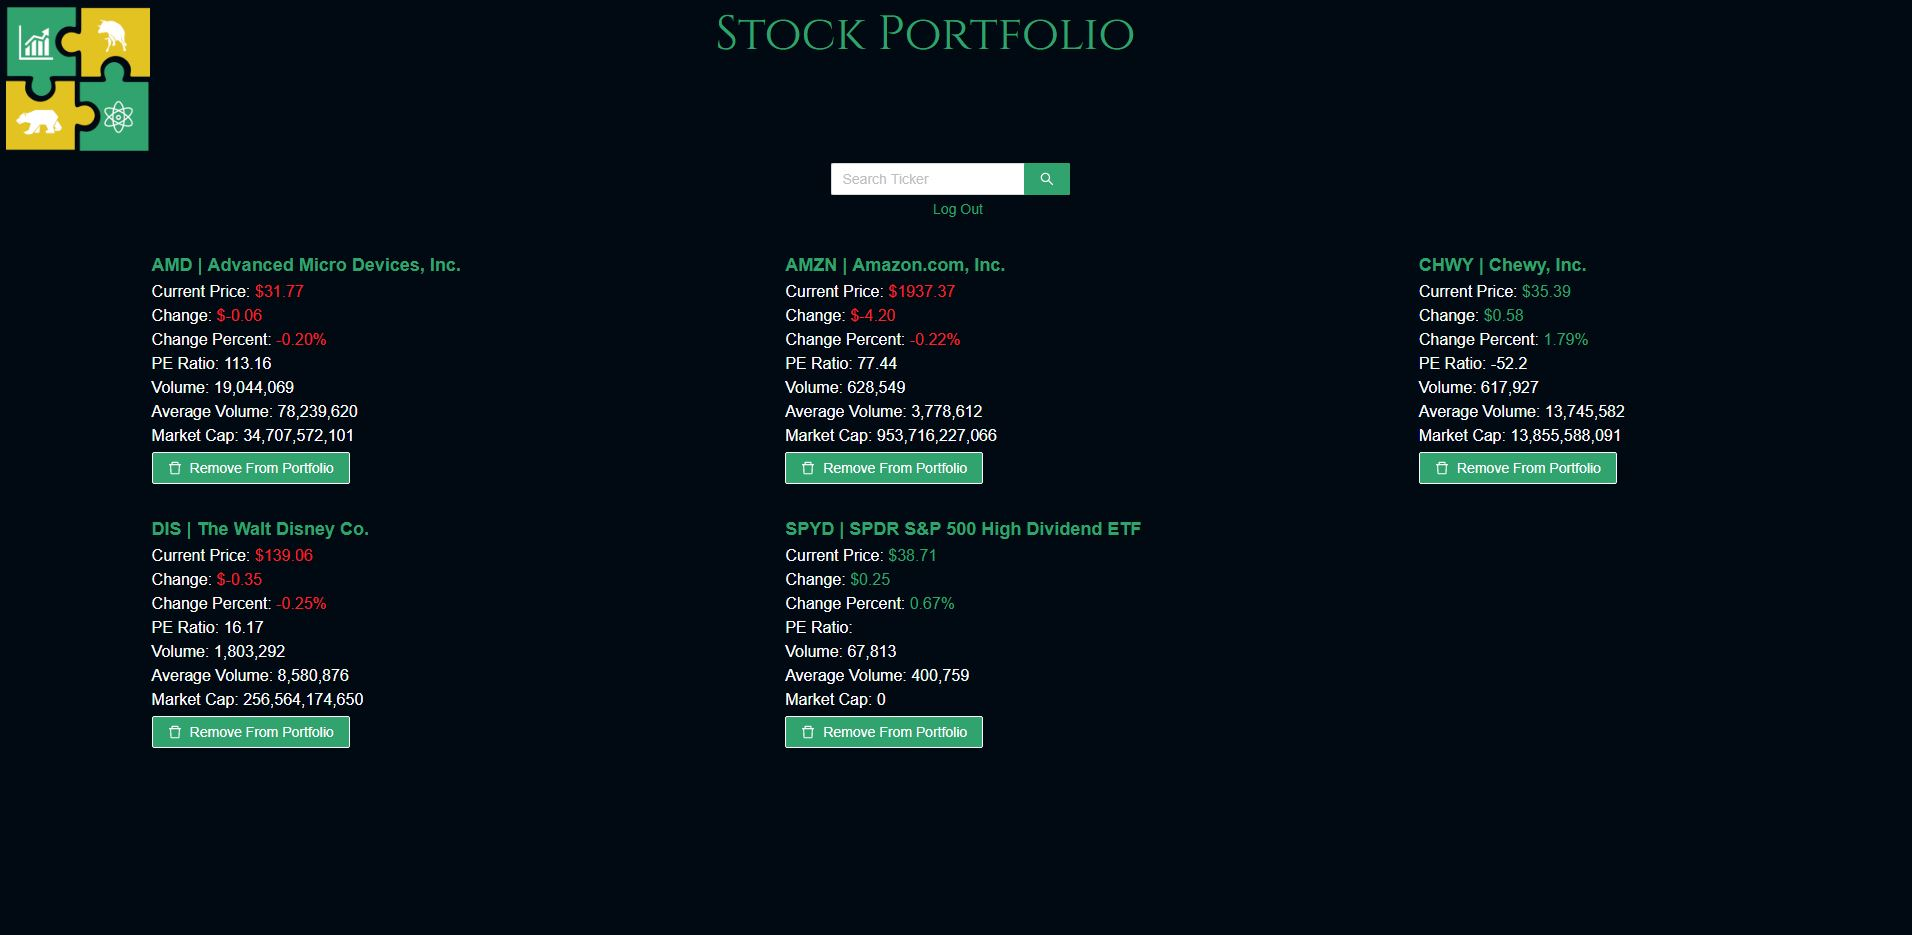
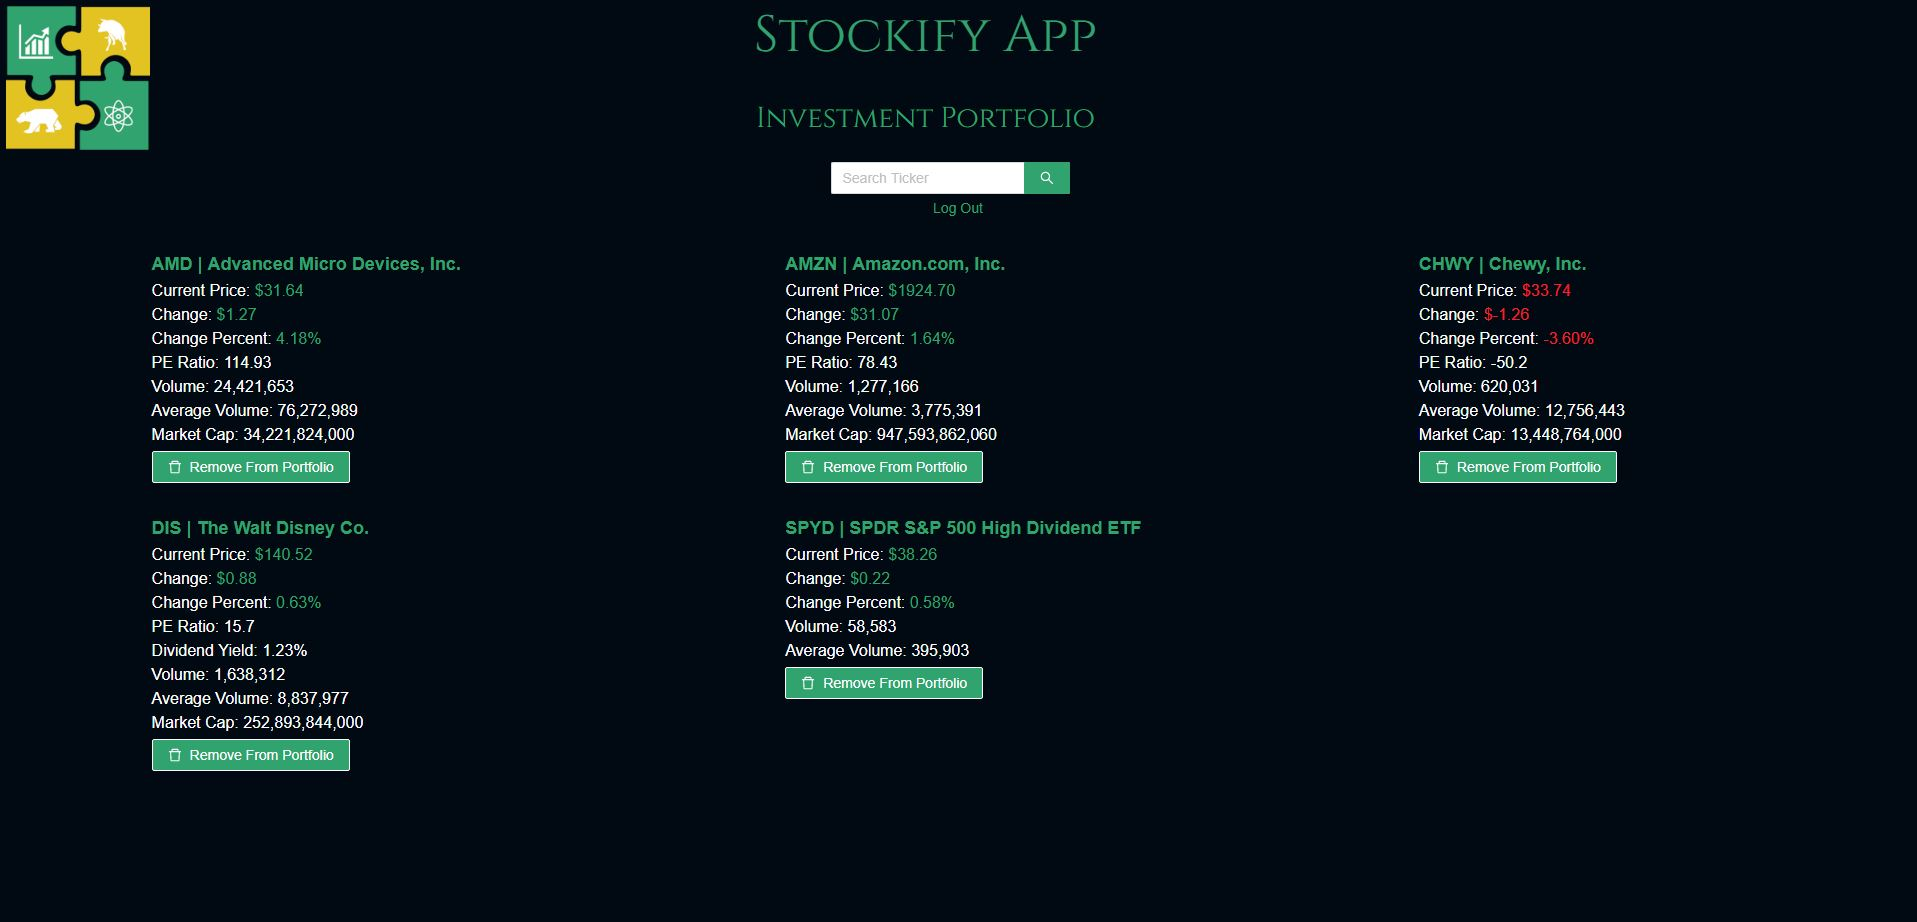
changing stockify picture/url

diff --git a/components/Projects.js b/components/Projects.js
@@ -27,18 +27,18 @@ const Projects = props => {
                     </div>
                     <div className="row project-block">
                         <div className="col-md-4">
-                            <h3>Stock Portfolio</h3>
+                            <h3>Stockify App</h3>
                             <p className="project-roles">
                                 <span className="neon-blue">React</span>
                                 <span className="slash"> / </span>
                                 <span className="neon-blue">MySQL</span>
                                 <span className="slash"> / </span>
-                                <span className="neon-blue">API</span>
+                                <span className="neon-blue">REST API</span>
                                 <span className="slash"> / </span>
                                 <span className="neon-blue">Next.js</span>
                             </p>
-                            <p className="project-description">Full Stack App made for stock portfolio management. Implemented REST API and user authentication.</p>
-                            <a href="https://eliteweb.dev"  target="_blank" rel="noopener" tabIndex="0"><span className="project-url underline-yellow">See it live</span></a>
+                            <p className="project-description">Full Stack App made for stock/investment portfolio management. Implemented REST API and user authentication.</p>
+                            <a href="https://stockify.app"  target="_blank" rel="noopener" tabIndex="0"><span className="project-url underline-yellow">See it live</span></a>
                             <span className="project-url yellow"> | </span> 
                             <a href="https://github.com/apardo04/stock-market-react-app"  target="_blank" rel="noopener" tabIndex="0"><span className="project-url underline-yellow">Github</span></a>
                         </div>
